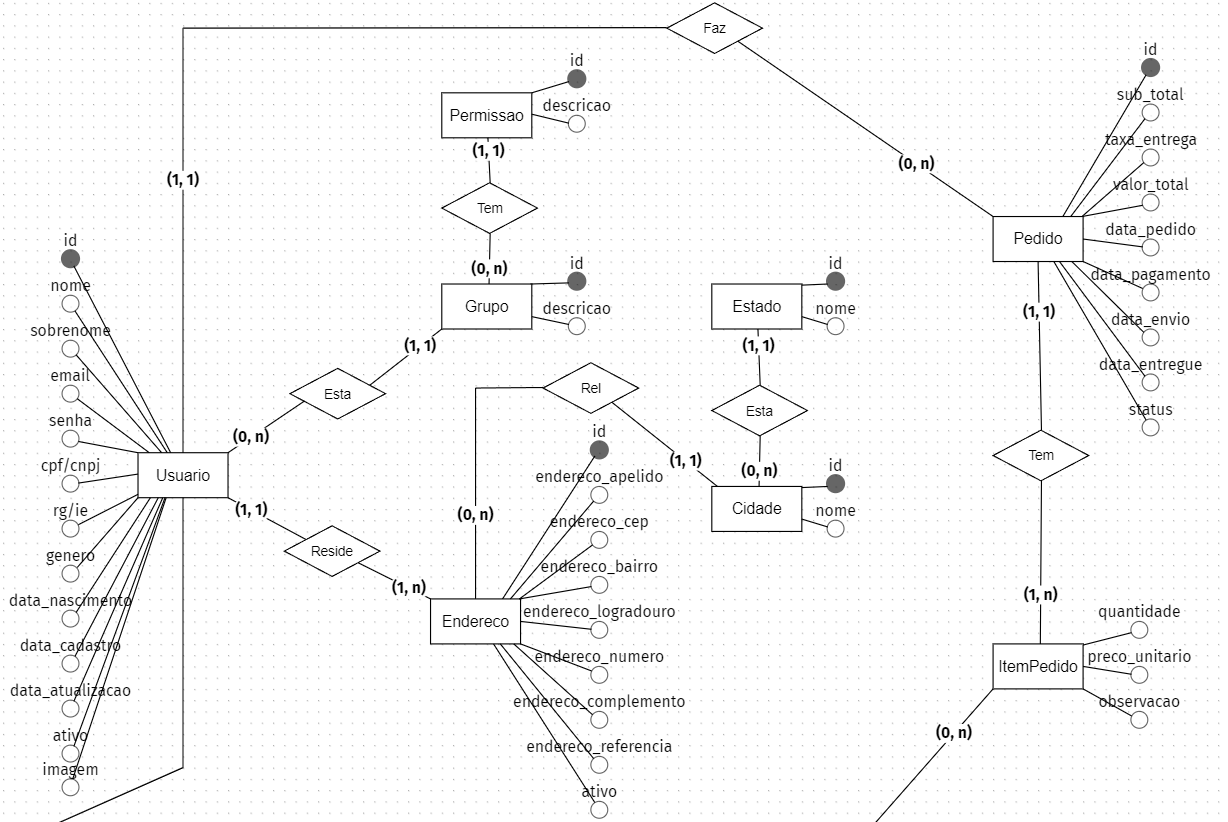
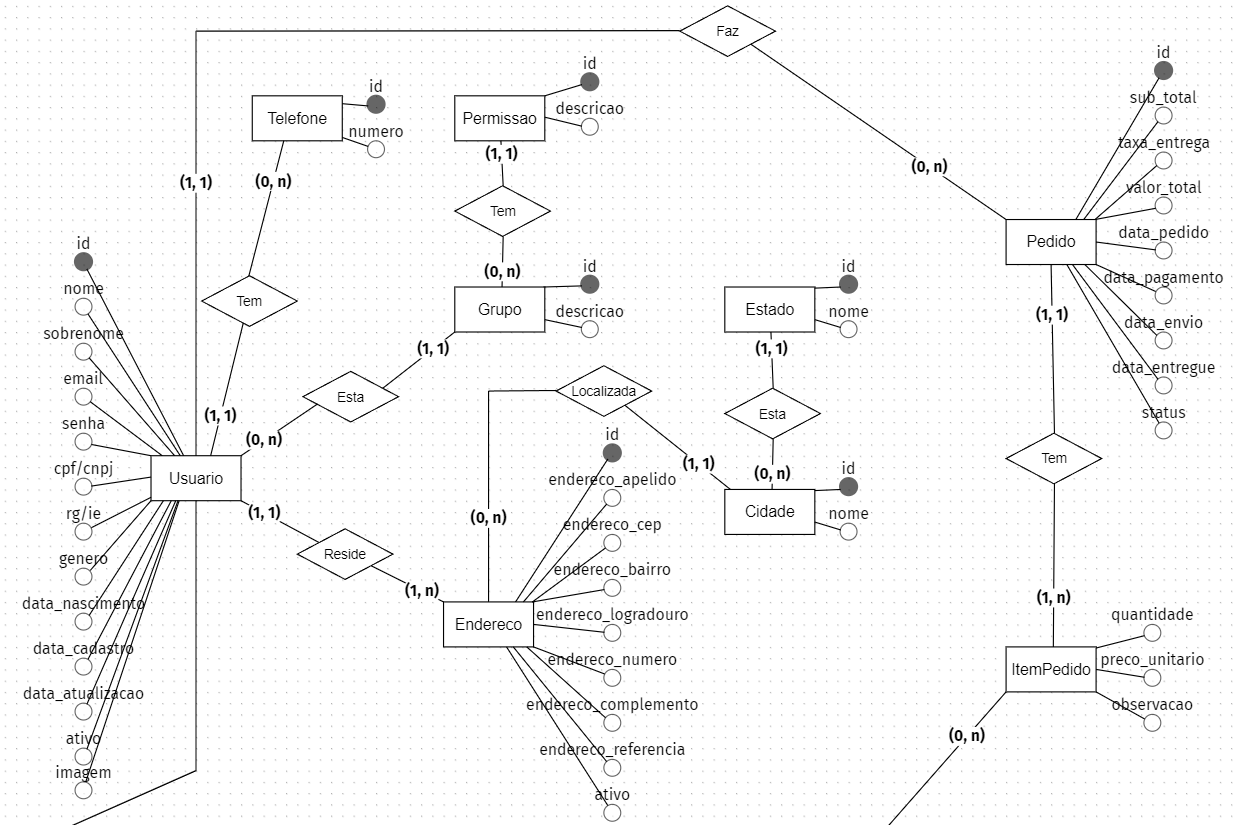
Model Entites

diff --git a/README.md b/README.md
@@ -617,8 +617,26 @@ Back-End  | 3     | Higor
 
 </details>
 
-- **Produto**
+## 🗃 Documentos Projeto:
+
+<details>
+<summary><b>📝 Modelagem de Entidades</b></summary>
+
+<details>
+<summary><b>🧺 Produto</b></summary>
+
 ![Produto Conceitual](assets/images/produto-conceitual.png)
+
+</details>
+
+<details>
+<summary><b>👦 Usuário</b></summary>
+
+![Produto Conceitual](assets/images/usuario-conceitual.png)
+
+</details>
+
+</details>
 
 ## 💼 Tecnologias utilizadas:
 
